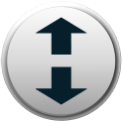
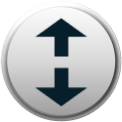
modified:   main.qml Changed the glow of CACC/ACC buttons modified:   Images/Button/addGap13D.png modified:   Images/Button/addGap3D.png modified:   Images/Button/minusGap13D.png modified:   Images/Button/minusGap3D.png Increased gaps between arrows to make it more obvious

diff --git a/PATH_App_Berkeley/main.qml b/PATH_App_Berkeley/main.qml
@@ -52,7 +52,7 @@ ApplicationWindow {
     property bool isLeader:udpSeret.position===0
     property int platooningState:udpSeret.platooningState
     property int popupID:udpSeret.popup
-    property int numberOfTrucks:1  // SY: The default is 1
+    property int numberOfTrucks:3  // SY: The default is 1
     property string exitDistance:(udpSeret.exitDistance/10.0).toFixed(1)
     property int myTruckID:udpSeret.position
     property var stringArray:udpSeret.vehicleArray
@@ -272,10 +272,10 @@ ApplicationWindow {
 
 
 
-       WaitingScreen{
+ /*      WaitingScreen{
             id:waitingHolder
-        }
-
+       }
+*/
 
         Row{
             id:buttonRow
@@ -366,9 +366,9 @@ ApplicationWindow {
 
                     layer.enabled:udpXDataCACC.CACCState===2? true : false //SY: a laye was add here  3/1/2017
                     layer.effect:Glow {
-                        radius:10
-                        spread:0.15
-                        color: "white"
+                        radius:13                            // modified on 4/18/2017
+                        spread:0.17                          // modified on 4/18/2017
+                        color: "white"                       
                         transparentBorder:true
                        }
                 }
@@ -393,10 +393,10 @@ ApplicationWindow {
                     myWidth: 225  // SY: Change the parameters from 180 to 225
                     //myState:0
 
-                    layer.enabled:udpXDataCACC.CACCState===4? true : false //SY: a laye was add here  3/1/2017
+                    layer.enabled:udpXDataCACC.CACCState===4? true : false //SY: a layer was add here  3/1/2017
                     layer.effect:Glow {
-                           radius:10
-                           spread:0.15
+                           radius:13                       // modified on 4/18/2017
+                           spread:0.17                     // modified on 4/18/2017
                            color: "white"
                            transparentBorder:true
                        }
